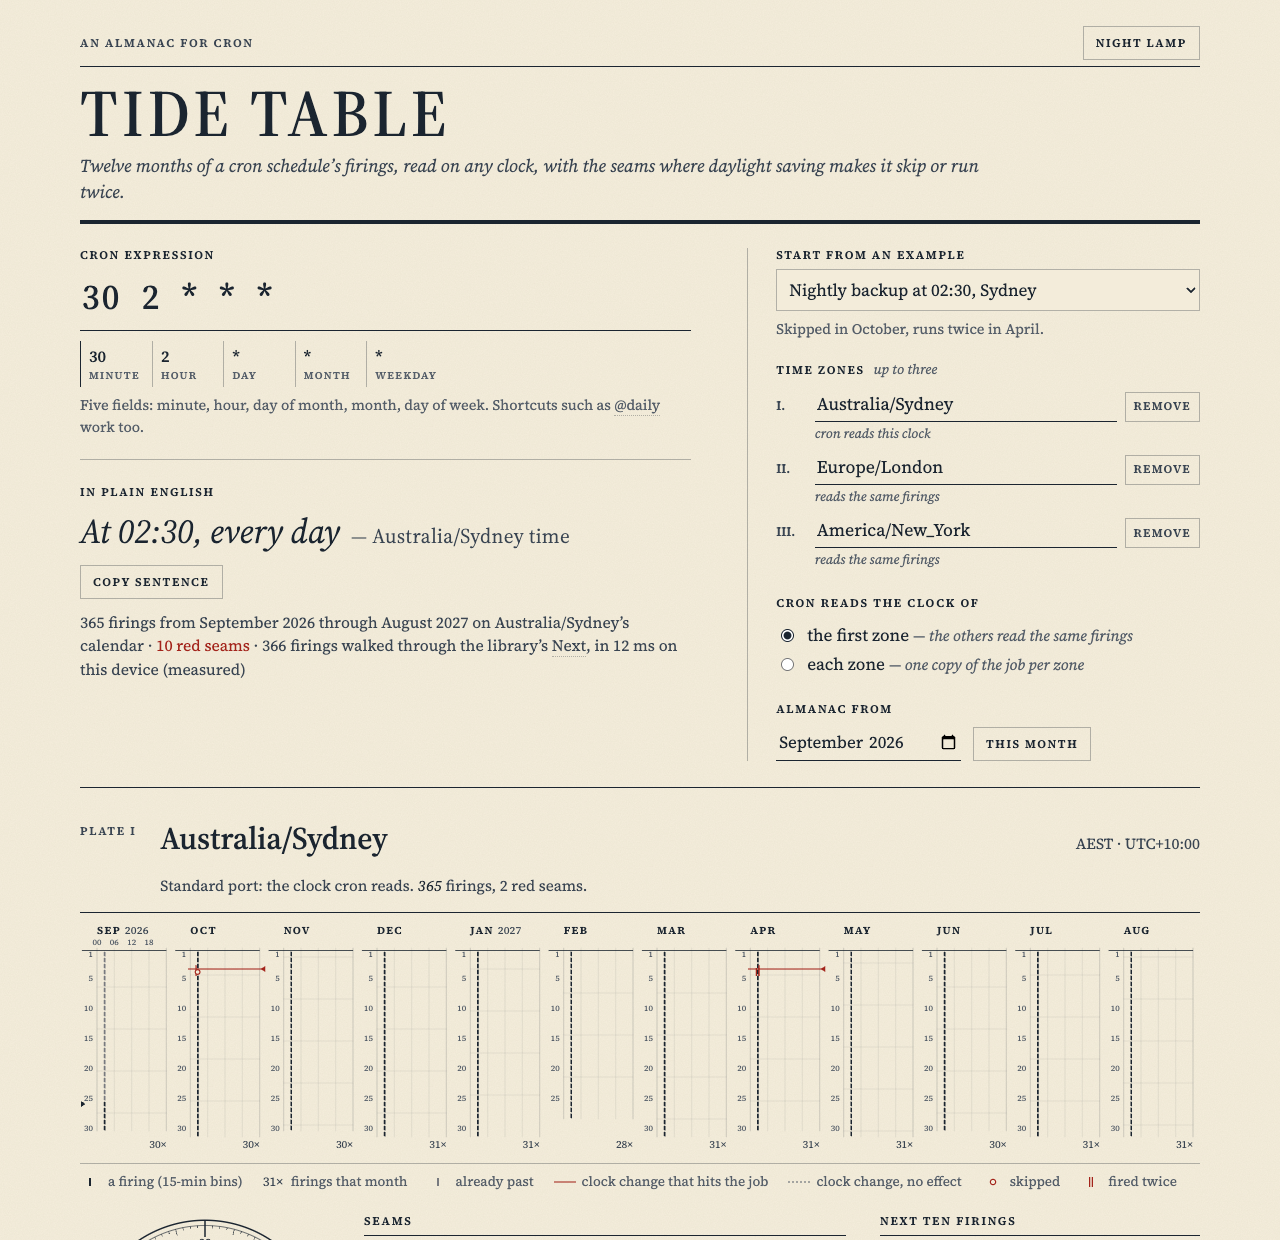
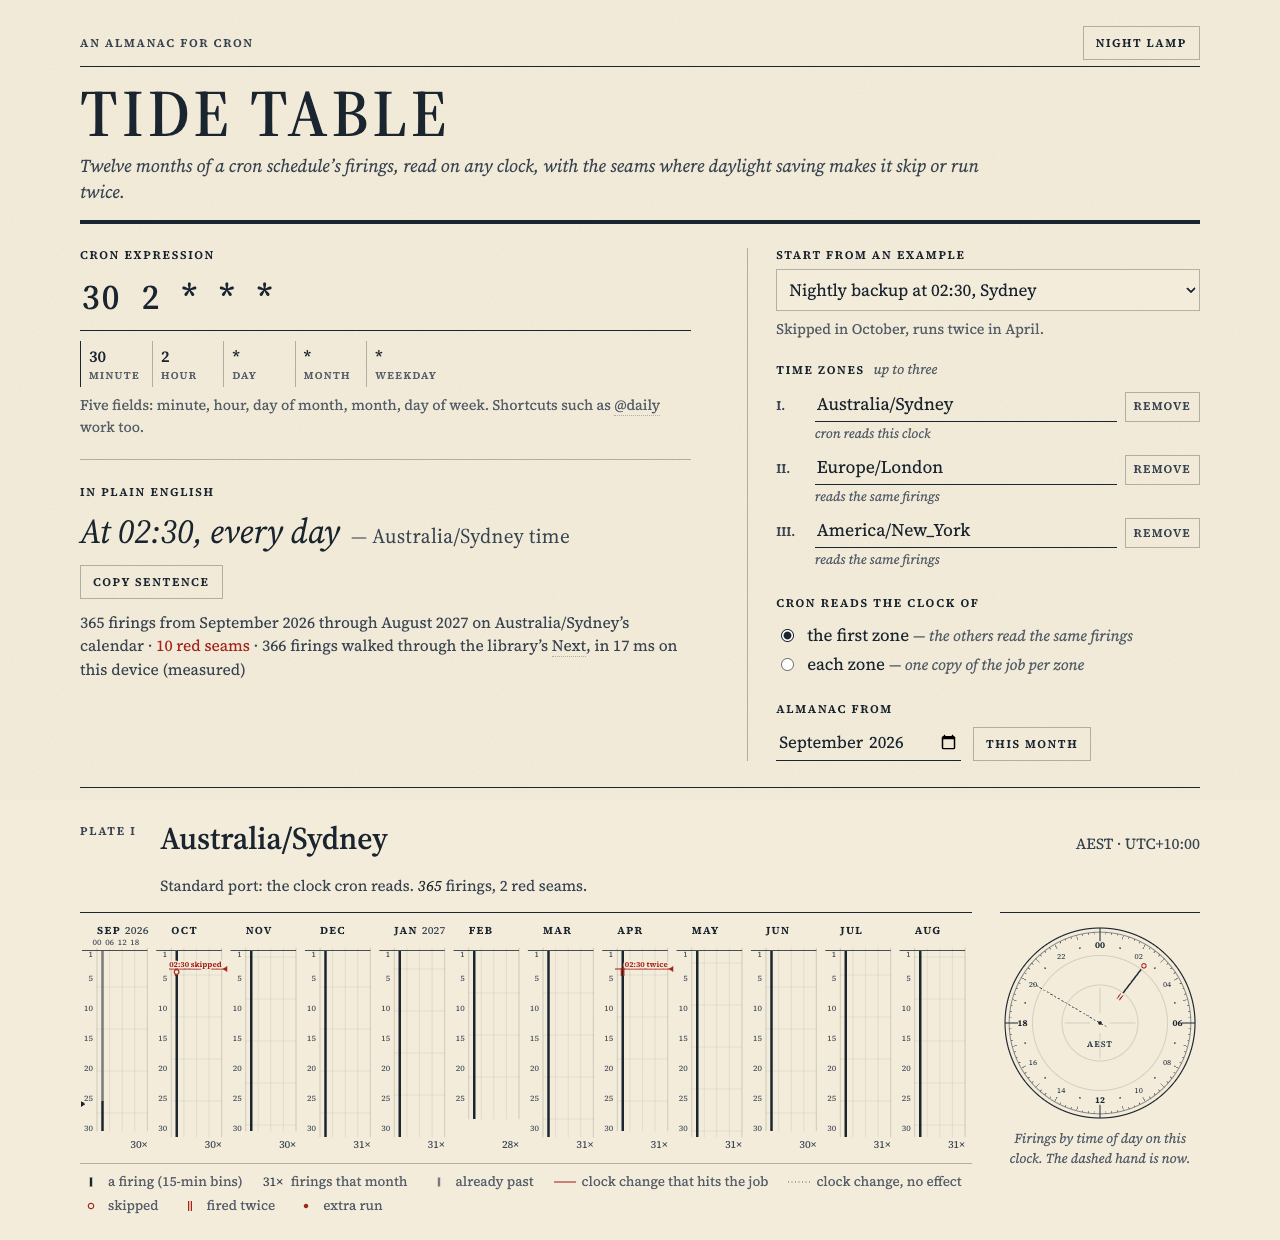
README and screenshot for the exact walk; sweep logs progress
- The README explains the new walk, the conditions for the fixed-offset
  shortcut and the equivalence test's coverage. It also documents how to
  run the exhaustive sweep and what it has covered so far.
- The semantics table adds the library's quirks: changes that aren't a
  whole hour or aren't on the hour, and the Chatham re-fire loop.
- Limitations add where the walk starts and the cost of the heaviest
  input. Sizes and credits are updated, including the notices file.
- The exhaustive sweep logs each mismatch and each finished zone as it
  goes, so a stopped run still leaves a record.
- New screenshot: labelled seams, solid firing bars, and the dial beside
  the strip.

diff --git a/internal/almanac/walk_test.go b/internal/almanac/walk_test.go
@@ -130,12 +130,14 @@ type sweepStats struct {
 }
 
 // sweep compares the two walks for every zone and window it is given, in
-// parallel, and returns the mismatches (at most 30 described).
-func sweep(t *testing.T, zones []string, windows func(zone string) [][2]int, exprs func(zone string, i int) []string) (*sweepStats, []string) {
+// parallel, and returns the mismatches (at most 30 described). With progress
+// set it also logs each mismatch and each finished zone as it goes (visible
+// with -v), so a long run that is stopped early still leaves a record.
+func sweep(t *testing.T, zones []string, windows func(zone string) [][2]int, exprs func(zone string, i int) []string, progress bool) (*sweepStats, []string) {
 	var st sweepStats
 	var mu sync.Mutex
 	var bad []string
-	var nbad atomic.Int64
+	var nbad, ndone atomic.Int64
 	jobs := make(chan string)
 	var wg sync.WaitGroup
 	for w := 0; w < runtime.GOMAXPROCS(0); w++ {
@@ -154,13 +156,20 @@ func sweep(t *testing.T, zones []string, windows func(zone string) [][2]int, exp
 						st.fast.Add(int64(fn.fastCalls))
 						st.real.Add(int64(fn.realCalls))
 						if !ok {
+							msg := fmt.Sprintf("%-18s %-32s from %d-%02d: %s", e, z, win[0], win[1], describeDiff(lib, fast, loc))
+							if progress {
+								t.Logf("MISMATCH %s", msg)
+							}
 							if nbad.Add(1) <= 30 {
 								mu.Lock()
-								bad = append(bad, fmt.Sprintf("%-18s %-32s from %d-%02d: %s", e, z, win[0], win[1], describeDiff(lib, fast, loc)))
+								bad = append(bad, msg)
 								mu.Unlock()
 							}
 						}
 					}
+				}
+				if progress {
+					t.Logf("zone %d/%d done: %s (%d walks, %d mismatches so far)", ndone.Add(1), len(zones), z, st.windows.Load(), nbad.Load())
 				}
 			}
 		}()
@@ -197,7 +206,7 @@ func TestWalkMatchesLibraryInEveryZone(t *testing.T) {
 				out = append(out, e)
 			}
 			return out
-		})
+		}, false)
 	for _, b := range bad {
 		t.Error(b)
 	}
@@ -213,12 +222,15 @@ func fnv32(s string) uint32 {
 
 // The exhaustive sweep: every zone, a window from every January 1970–2199
 // (and, with TIDE_SWEEP_MONTHS=all, from every month), every expression
-// above. Off by default; run it with
+// above. It takes hours of CPU (about 35 s of one core per zone with
+// daylight saving), so it is off by default and not part of npm test; the
+// sampled test above is the gate. Run it with
 //
 //	TIDE_SWEEP=1 go test ./internal/almanac -run TestWalkSweepExhaustive -timeout 0 -v
 //
 // TIDE_SWEEP_ZONES (comma-separated), TIDE_SWEEP_YEARS (from-to) and
-// TIDE_SWEEP_EXPRS (semicolon-separated) narrow it.
+// TIDE_SWEEP_EXPRS (semicolon-separated) narrow it. With -v it logs each
+// mismatch and each finished zone as it goes.
 func TestWalkSweepExhaustive(t *testing.T) {
 	if os.Getenv("TIDE_SWEEP") == "" {
 		t.Skip("set TIDE_SWEEP=1 to run the exhaustive sweep")
@@ -248,7 +260,7 @@ func TestWalkSweepExhaustive(t *testing.T) {
 		}
 	}
 	start := time.Now()
-	st, bad := sweep(t, zones, func(string) [][2]int { return wins }, func(string, int) []string { return exprs })
+	st, bad := sweep(t, zones, func(string) [][2]int { return wins }, func(string, int) []string { return exprs }, true)
 	for _, b := range bad {
 		t.Error(b)
 	}

diff --git a/README.md b/README.md
@@ -2,7 +2,7 @@
 
 **Paste a cron expression; see the next year of firings as an almanac across time zones.**
 
-![Tide Table in the light theme: the expression 30 2 * * *, its plain-English reading, and the first plate with a year strip whose red seams mark October and April](docs/screenshot.png)
+![Tide Table in the light theme: the expression 30 2 * * *, its plain-English reading, and the first plate, whose year strip has labelled red seams in October (02:30 skipped) and April (02:30 twice), with the engraved 24-hour dial beside it](docs/screenshot.png)
 
 Tide Table reads a cron schedule the way a tide table reads the sea: twelve month columns, a fine tick for every firing, and a plain sentence for what it does. Where daylight saving tears the schedule, a red seam runs across the page. That is the day a job is skipped because its time never happens, or runs twice because its time happens twice, or reads an hour earlier or later on someone else's clock.
 
@@ -19,8 +19,8 @@ The firings come from [robfig/cron v3](https://github.com/robfig/cron), the Go l
    - **A plain-English sentence**, such as "At 09:00, Monday through Friday", with a copy button.
    - **A plate for each zone**, with:
      - **a year strip** in almanac style: twelve month columns, a row per day, midnight to midnight across, a tick at each firing and the month's total underneath;
-     - **red seams** where a clock change hits the job: a hollow ring where a firing was skipped, a double tick where it ran twice, and a plain red seam where the readings shift on a secondary zone;
-     - **a polar 24-hour dial**, engraved, with a tick at each time of day that fires, long in proportion to how many days fire then, and a dashed hand at "now";
+     - **red seams** where a clock change hits the job, each with its short label printed beside it ("02:30 skipped"): a hollow ring where a firing was skipped, a double tick where it ran twice, a red dot for an extra run the library adds, and a plain red seam where the readings shift on a secondary zone;
+     - **a polar 24-hour dial**, engraved, beside the strip on wide screens, with a tick at each time of day that fires, long in proportion to how many days fire then, and a dashed hand at "now";
      - **the next ten firings** on that zone's clock, flagging both runs of a repeated time.
 
 The state lives in the URL, so a link reopens the same almanac.
@@ -34,8 +34,10 @@ Cron implementations disagree about clock changes. Tide Table models **robfig/cr
 | Clocks go forward (a gap) | A firing whose wall time falls in the gap is **skipped**. The library's docs: "jobs scheduled during daylight-savings leap-ahead transitions will not be run!" | Jobs from the skipped interval "will be run immediately" after the change, for fixed-time jobs and changes under three hours ([cron(8)](https://github.com/cronie-crond/cronie/blob/master/man/cron.8)). |
 | Clocks go back (an overlap) | A firing whose wall time falls in the repeated interval **runs twice**, once in each pass (its own tests call this "1am nightly job (runs twice)"). | "running the same job twice is avoided". |
 | Frequent jobs (every few minutes) | Walked minute by minute on the wall clock: the gap's minutes are skipped and the overlap's minutes run twice. | Scheduled normally. |
+| Changes that aren't a whole hour, or aren't on the hour (Lord Howe Island's 30 minutes; the Chatham Islands at 02:45) | A quirk of its search, which steps an hour at a time: after the change its steps land off the hour. `0 12 * * *` in Lord Howe is **skipped on both change days**, though 12:00 happens; `30 1 * * *` gets an **extra run** at 02:30; `50 3 * * *` in Chatham skips 03:50 in September. A search that crosses such a change can also pass over a time days later (`@monthly` in Lord Howe loses 1 November in 2028). | Not affected: cron checks each minute. |
+| Chatham Islands, clocks going back, minutes :45–:59 of hour 3 (2024–2199) | `Next` of 02:50 returns 02:50 again, so a running scheduler would **re-fire in a tight loop** until 03:00. The page shows that run once and says so, then carries on from the next minute. | — |
 
-The engine doesn't assume those rules; it measures them. For every day of the year it compares what the library actually returned with a plain wall-clock reading of the expression, and reports the difference: skipped times, repeated times, or (if the library ever moved one) moved times. The seams on the page are that comparison.
+The engine doesn't assume those rules; it measures them. For every day of the year it compares what the library actually returned with a plain wall-clock reading of the expression, and reports the difference: skipped times, repeated times, extra runs and re-fire loops. Each seam's sentence is built from those facts and from the clock change itself. It says "doesn't happen" only for a time inside a forward gap, and "happens twice" only for a time inside a repeated stretch. Anything else is named as a library quirk. The seams on the page are that comparison.
 
 Other details that come straight from the library:
 
@@ -71,10 +73,16 @@ It then classifies the anomalies and hands the page compact data. JavaScript onl
 ### How the engine works
 
 - **Parsing.** `internal/almanac/parse.go` validates length, characters and field count, then calls the library. When the library objects, it re-parses each field on its own to find which field is wrong, and turns the library's message into a sentence, for example "Hour “24”: 24 is above the largest hour, 23. Hours run 0–23."
-- **Walking.** `walkSegmented` asks the library's `Next` for every firing in the window.
-  - Go's embedded tz data is "slim", so for future dates each offset lookup re-derives the zone's rule, and `Next` does many lookups. Between clock changes the offset is constant, so there the library is handed a fixed-offset zone with that same offset (the identical wall clock). Within two days of each change it gets the real zone.
-  - The walk also starts each `Next` 59 seconds after the previous firing: standard cron only fires at second 0, so the answer is the same and the library skips its second-by-second scan.
-  - A test walks a year in 11 zones with the plainest possible loop (the real zone throughout, `Next` from each firing itself) and checks both walks agree firing for firing.
+- **Walking** (`internal/almanac/walk.go`). The reference is the plainest use of the library: the real zone, and `Next` asked for the firing after each firing it returned, as a running scheduler does. The almanac walks exactly that loop, with two additions.
+  - **Re-fire loops.** Where `Next` returns a time no later than the firing it was given, the walk records the loop once and asks again from each following minute until `Next` moves on.
+  - **Speed.** Go's embedded tz data is "slim", so for dates past 2037 every offset lookup re-derives the zone's rule, and `Next` makes dozens of lookups per call. So each call first tries a fixed-offset zone with the offset Go reports around the previous firing. It keeps that answer only under two conditions. First, the previous firing matches the expression, so `Next` never resets backwards. Second, both that firing and the answer sit at least |offset| + 1 hour inside the same stretch of constant offset. Under those conditions every time `Next` visits lies in that stretch, where the two zones read and resolve wall-clock times the same way, so the real zone must give the same answer. Otherwise the call is made again with the real zone. The argument is written out in `fastNext`'s comment. It rests on reading the code of robfig/cron's `Next` and Go's `time.Date`, so the tests below check it on real data rather than trusting it.
+  - **The equivalence test** (`walk_test.go`) checks this with the plain walk on real data. It covers every one of the 598 names in the embedded tz database (2025c), with three windows each sampled deterministically across 1970–2199 and 12 sparse and DST-sensitive expressions (`@monthly`, `0 12 * 11 *`, `0 0 1 * *`, `5 * * * *`, `59 23 * * *`, `0 0 * * *` and others). That is about 20,000 walks and 9 million firings, compared firing for firing, including loops and the backstop flag. It took 4 s on 18 cores (about a minute of CPU), and it runs in `npm test`. Every case the review found is pinned with the library's own count, and dense expressions are checked around every change in seven awkward zones.
+  - **The exhaustive sweep** runs every zone from every January 1970–2199 with the same expressions: `TIDE_SWEEP=1 go test ./internal/almanac -run TestWalkSweepExhaustive -timeout 0 -v`. Add `TIDE_SWEEP_MONTHS=all` for every start month. `TIDE_SWEEP_ZONES`, `TIDE_SWEEP_YEARS` and `TIDE_SWEEP_EXPRS` narrow it. It logs each mismatch and each finished zone as it goes. It is off by default and isn't part of `npm test`, because it takes hours of CPU: about 35 s of one core per zone with daylight saving, and a few seconds per zone without. Results so far:
+    - seven zones swept in full, all 230 years with all 12 expressions: New York, London, Santiago, Casablanca, Lord Howe, Chatham (225 re-fire loops) and Tokyo;
+    - every zone with dense expressions (`*/15 * * * *`, `45-59 3 * * *`, `*/7 1-3 * * *`) for 1995–1999 and 2096–2100.
+
+    None found a mismatch. The one attempt at the complete run was stopped after 79 minutes on a busy shared machine, before per-zone logging existed, so it left no result.
+  - An earlier version also started each `Next` 59 seconds after the previous firing, and restarted the walk at each clock change. Both were faster and both were wrong in places (Lord Howe, Asunción, Monrovia's −0:44:30 offset, and others), so both are gone. The cost: an every-minute schedule in three zones now takes a few seconds, and the page shows a busy line while it works.
 - **Classifying.** For each day on the scheduler's clock, it compares the library's firings with the expression's nominal times, and attributes each difference to the clock change that caused it.
 - **Views.** Each zone gets its twelve-month window on its own calendar:
   - per-day firing counts, and 15-minute bins for the strip;
@@ -93,13 +101,13 @@ With the slim tz data that `time/tzdata` embeds, Go 1.26.4's `Time.ZoneBounds` r
 
   | Form | Size |
   | --- | --- |
-  | Uncompressed | 3,958,059 bytes |
-  | gzip -9 | 1,114,493 bytes |
-  | brotli 11 | 813,147 bytes |
+  | Uncompressed | 4,017,082 bytes |
+  | gzip -9 | 1,128,885 bytes |
+  | brotli 11 | 822,983 bytes |
 
   The build is reproducible (`-trimpath -buildvcs=false`): a fresh clone with the same Go version produced the same bytes and the same hashed name. Your host decides the compression. The colophon on the page reports what actually came over the network on your visit, read from the browser's resource timing.
 - **Speed.** The page shows how long the engine took for the current request and how many firings it walked, measured on your device. There is no speed claim anywhere else.
-- **Loading.** The engine loads in a Web Worker behind a dial-and-gauge loading state with a byte count. The page stays responsive while it computes.
+- **Loading.** The engine loads in a Web Worker behind a dial-and-gauge loading state with a byte count (in KiB). The page stays responsive while it computes, and a busy line appears when a compute takes more than a quarter of a second.
 - **Caching.** Every asset except `index.html` has a content hash in its name and is served `immutable` for a year. `index.html` has no max-age.
 
 ### Caps on the work
@@ -107,7 +115,7 @@ With the slim tz data that `time/tzdata` embeds, Go 1.26.4's `Time.ZoneBounds` r
 - At most **3 zones**, and **one 12-month window** per zone, starting at a month you choose between 1970 and 2199.
 - Expressions are capped at **120 characters**, and zone names at 64.
 - Standard cron fires at most once a minute, so the heaviest request (`* * * * *` in three zones, each on its own clock) walks about 1.58 million firings. The engine walks them all; nothing is sampled.
-- A backstop of 532,800 firings per zone guards against surprises.
+- A backstop of 532,800 firings per zone guards against surprises. It isn't reached by any five-field expression. If it ever is, the page says the almanac is incomplete rather than drawing a cut-short year.
 - **What reaches the page is aggregated:**
   - day counts and 15-minute bins for the strip, which is said on the page;
   - a histogram of at most 1,440 minutes for the dial;
@@ -124,19 +132,19 @@ npm run serve     # serve dist/ on a free local port, with the production header
 ```
 
 - **`npm test`** runs:
-  - `go test ./...`: parsing and error messages, the plain-English sentences, DST gaps and overlaps, leap years, the walk equivalence, input caps, the JSON encoder and the zone list;
+  - `go test ./...`: parsing and error messages, the plain-English sentences, DST gaps and overlaps, the seam sentences for half-hour and quarter-hour changes, the Chatham re-fire loop, leap years, the walk equivalence in every zone, the backstop notice, input caps, the JSON encoder and the zone list;
   - `npm run build`;
   - `node --test "tests/*.test.mjs"`:
-    - `smoke`: the built files, hashes and headers, and the WebAssembly engine booted in Node, returning firings for every preset;
+    - `smoke`: the built files, hashes and headers, the third-party notices, and the WebAssembly engine booted in Node, returning firings for every preset and for the Chatham loop;
     - `render`: the SVG helpers;
     - `contrast`: WCAG AA from the CSS tokens in both themes, and red used only for daylight-saving marks;
-    - `browser`: real headless Chrome through the DevTools protocol, covering no console errors or CSP violations, error messages, presets, URL state, keyboard order, a true 400 px phone viewport in both themes, and reduced motion.
+    - `browser`: real headless Chrome through the DevTools protocol, covering no console errors or CSP violations, error messages, presets, URL state, the copy button (with clipboard permission granted, and the selected-text fallback without it), the busy line, the seam labels and dial placement, keyboard order, a true 400 px phone viewport in both themes, and reduced motion.
 - **`REQUIRE_BROWSER=1`** makes a missing Chrome a failure instead of a skip. Set it in CI.
 - **`go generate ./...`** regenerates the zone list after a Go upgrade. A test fails if it's stale.
 
 ## Running on Cloudflare (free)
 
-It's a static site: `dist/` is 14 files, and the largest, the engine, is under 4 MB. Pages' free plan allows 25 MiB per file and 20,000 files, with unlimited static requests. There is no Worker, no storage and no API call. `dist/_headers` sets a strict Content-Security-Policy and the cache rules above.
+It's a static site: `dist/` is 15 files, and the largest, the engine, is about 3.9 MiB. Pages' free plan allows 25 MiB per file and 20,000 files, with unlimited static requests. There is no Worker, no storage and no API call. `dist/_headers` sets a strict Content-Security-Policy and the cache rules above.
 
 For readers deploying their own copy, the plain command is:
 
@@ -154,6 +162,8 @@ There is deliberately no deploy script or `account_id` in this repository. The o
 - The loading state needs roughly a megabyte of WebAssembly on first visit. After that, the hashed file comes from cache.
 - The hover note on the year strip is for pointers. Keyboard and screen-reader users get the same facts from the seams list, the monthly totals and the SVG descriptions, but not a per-day readout.
 - Past days at the top of the current month are drawn but dimmed. The window is whole calendar months.
+- The walk starts at the first instant of the almanac's first day. robfig/cron's answer depends on where its search starts. So, where a library quirk carries across the window's start, a scheduler that has been running for longer can differ from the almanac on the first firing (for example `@monthly` in Lord Howe from November 2028).
+- The heaviest input (`* * * * *` in three zones, each on its own clock) takes a few seconds, because every firing goes through the library's `Next`. The page measures and shows the time, with a busy line while it works.
 
 ## Next
 
@@ -165,8 +175,8 @@ There is deliberately no deploy script or `account_id` in this repository. The o
 
 ## Credits and licence
 
-- **robfig/cron v3** (MIT) does the scheduling. **Go** (BSD) compiles it, and Go's `wasm_exec.js` loads it.
+- **robfig/cron v3** (MIT) does the scheduling. **Go** (BSD) compiles it, and Go's `wasm_exec.js` loads it. Both are compiled into or served with the engine, so the build writes their licence texts, copied from the module and the Go toolchain it built with, to `dist/THIRD_PARTY_NOTICES.txt`. The page's colophon links to it.
 - The **IANA tz database** is in the public domain.
-- The type is **Source Serif 4**, self-hosted under the SIL Open Font License; its licence is at `dist/fonts-OFL.txt` and in `web/fonts/OFL.txt`.
+- The type is **Source Serif 4**, self-hosted under the SIL Open Font License. Its licence is in the notices, at `dist/fonts-OFL.txt` and in `web/fonts/OFL.txt`.
 - Built by Ramen Protocol with AI assistance (Claude).
 - Code licence: MIT; see `LICENSE`.
